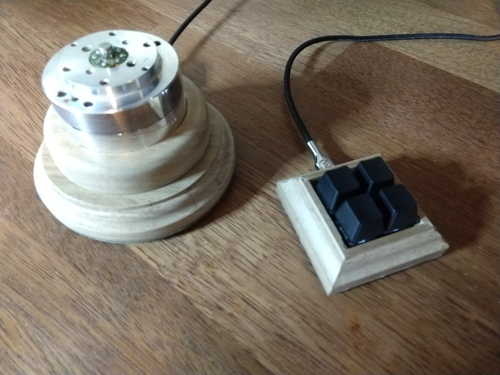
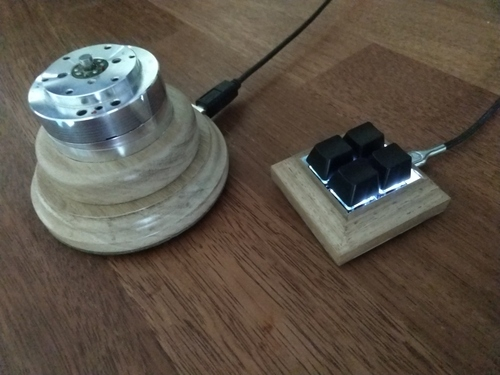
Updated ansible project with file_server and rsync_server roles.  Replaced a photo for macr0.

diff --git a/clews.pro/html/projects/clewsy_ansible.php b/clews.pro/html/projects/clewsy_ansible.php
@@ -34,7 +34,7 @@
 			<hr />
 
 			<h2 class="align-center">Hosts</h2>
-			<table class="text-table">
+			<table class="text-table"><col style="width:auto"><col style="width:auto"><col style="width:600px"><col style="width:auto">
 				<tr>
 					<th scope="col">Hostname</th>
 					<th scope="col">Base OS</th>
@@ -218,18 +218,21 @@
 				</tr>
 				<tr>
 					<th scope="row">zapp</th>
-					<td><a href="https://www.openmediavault.org/">openmediavault</a></td>
+					<td><a href="https://ubuntu.com/">Ubuntu</a></td>
 					<td>
-						<p>File-server and backup storage.</p>
-						<p>Shares bulk media over <a href="https://en.wikipedia.org/wiki/Network_File_System_(protocol)">nfs</a> and acts as my on-site backup storage.</p>
-						<p>Also runs a torrent client (<a href="https://www.qbittorrent.org/">qbittorrent</a>).</p>
+						<p>File-server, backup storage and torrent client.</p>
+						<p>Shares media using <a href="https://en.wikipedia.org/wiki/Network_File_System_(protocol)">nfs</a> and acts as my on-site backup storage.</p>
+						<p>Includes some specific rsync cron jobs to facillitate on-site and off-site backups.</p>
+						<p>For a few years I used <a href="https://www.openmediavault.org/">openmediavault</a> (omv) as the operating system for backups and file serving, but I switched to a minimal Ubuntu server install which allowed me to fully automate deployment/redeployment without needing to use the omv gui or learn the omv command-line options.</p> 
 					</td>
 					<td>
 						<ul>
 							<li>common</li>
 							<li>docker</li>
+							<li>file_server</li>
 							<li>headless</li>
 							<li>qbittorrent</li>
+							<li>rsync_server</li>
 							<li>vpn</li>
 						</ul>
 					</td>
@@ -287,6 +290,10 @@
 					<td>A special role created to configure an android smartphone running <a href="https://termux.com/">Termux</a>.  This role has tasks similar to common that had to be implemented dfferently (configure ssh, install packages, install scripts).  It also installs some termux "shortcuts" which are basically scripts that can be run from a widget.</td>
 				</tr>
 				<tr>
+					<th scope="row"><a href="https://gitlab.com/clewsy/clewsy_ansible/-/tree/master/roles/file_server">file_server</a></th>
+					<td>Mounts a number of disks and configures specified disks or directories as <a href="https://en.wikipedia.org/wiki/Network_File_System_(protocol)">nfs</a> shares for access over the local network.</td>
+				</tr>
+				<tr>
 					<th scope="row"><a href="https://gitlab.com/clewsy/clewsy_ansible/-/tree/master/roles/headless">headless</a></th>
 					<td>Install and configure some <a href="https://en.wikipedia.org/wiki/Ncurses">ncurses</a> apps useful for headless systems and systems that are often accessed remotely.  Includes <a href="https://hisham.hm/htop/">htop</a>, <a href="http://www.ex-parrot.com/pdw/iftop/">iftop</a>, <a href="https://dev.yorhel.nl/ncdu">ncdu</a>, <a href="https://github.com/tmux/tmux/wiki">tmux</a> and <a href="https://midnight-commander.org/">Midnight Commander</a>.</td>
 				</tr>
@@ -321,6 +328,10 @@
 				<tr>
 					<th scope="row"><a href="https://gitlab.com/clewsy/clewsy_ansible/-/tree/master/roles/rad10">rad10</a></th>
 					<td>Configure a <a href="https://www.raspberrypi.org/">raspberry pi</a> as an internet radio/music streamer with hardware control and a webui.  First run the mpd role, then clone the <a href="https://gitlab.com/clewsy/rad10d">rad10d repo</a>, compile the daemon and configure a unit-file for systemd auto-starting.  Will also install web server packages (<a href="https://httpd.apache.org/">Apache</a>) and copy the html/php files for the rad10 webui.</td>
+				</tr>
+				<tr>
+					<th scope="row"><a href="https://gitlab.com/clewsy/clewsy_ansible/-/tree/master/roles/rsync_server">rsync_server</a></th>
+					<td>Creates a series of <a href="https://en.wikipedia.org/wiki/Cron">cron</a> jobs that use <a href="https://rsync.samba.org/">rsync</a> to create specified local and remote backups to/from various machines..</td>
 				</tr>
 				<tr>
 					<th scope="row"><a href="https://gitlab.com/clewsy/clewsy_ansible/-/tree/master/roles/secure">secure</a></th>

diff --git a/clews.pro/html/projects.php b/clews.pro/html/projects.php
@@ -182,11 +182,11 @@
 					<th scope="row"><a href="/projects/clewsy_ansible.php">clewsy_ansible</a></th>
 					<td><a href="/projects/clewsy_ansible.php"><img class="thumbnail" src="/projects/images/clewsy_ansible/clewsy_ansible_01.png" /></a></td>
 					<td>Deplolyment/configuration/maintenance automation of the machines/devices on my home network with ansible.</td>
-					<td class="date">2020-09-16</td>
+					<td class="date">2020-09-20</td>
 					<td class="links">
 						<a href="https://gitlab.com/clewsy/clewsy_ansible">gitlab</a><br />
 					</td>
-					<td>Ansible, Linux, Debian, Ubuntu, Raspbian, OpenMediaVault, OSMC, Pop_OS!, Termux, Raspberry Pi, Beaglebone Black, git, GitLab, Home Assistant, Wireguard, OpenVPN, qbittorrent, Vim, Conky, Terminator, Guake, Gnome, Docker, docker-compose, yaml, motion, mpd, mpc, ncmpc, bash scripts, Apache, php, apt, snap, ssh, mount, fstab, lm-sensors, VSCode, midnight commander, alias, python, motd, htop, iftop, ncdu, tmux, curl, netdiscover, nmap, chmod. chown, cron, pigpio, ufw, LineageOS, VPS, android, nfs, sudo</td>
+					<td>Ansible, Linux, Debian, Ubuntu, Raspbian, OpenMediaVault, OSMC, Pop_OS!, Termux, Raspberry Pi, Beaglebone Black, git, GitLab, Home Assistant, Wireguard, OpenVPN, qbittorrent, Vim, Conky, Terminator, Guake, Gnome, Docker, docker-compose, yaml, motion, mpd, mpc, ncmpc, bash scripts, Apache, php, apt, snap, ssh, mount, fstab, lm-sensors, VSCode, midnight commander, alias, python, motd, htop, iftop, ncdu, tmux, curl, netdiscover, nmap, chmod. chown, cron, pigpio, ufw, LineageOS, VPS, android, nfs, sudo, rsync</td>
 				</tr>
 			</table>
 		</div>
